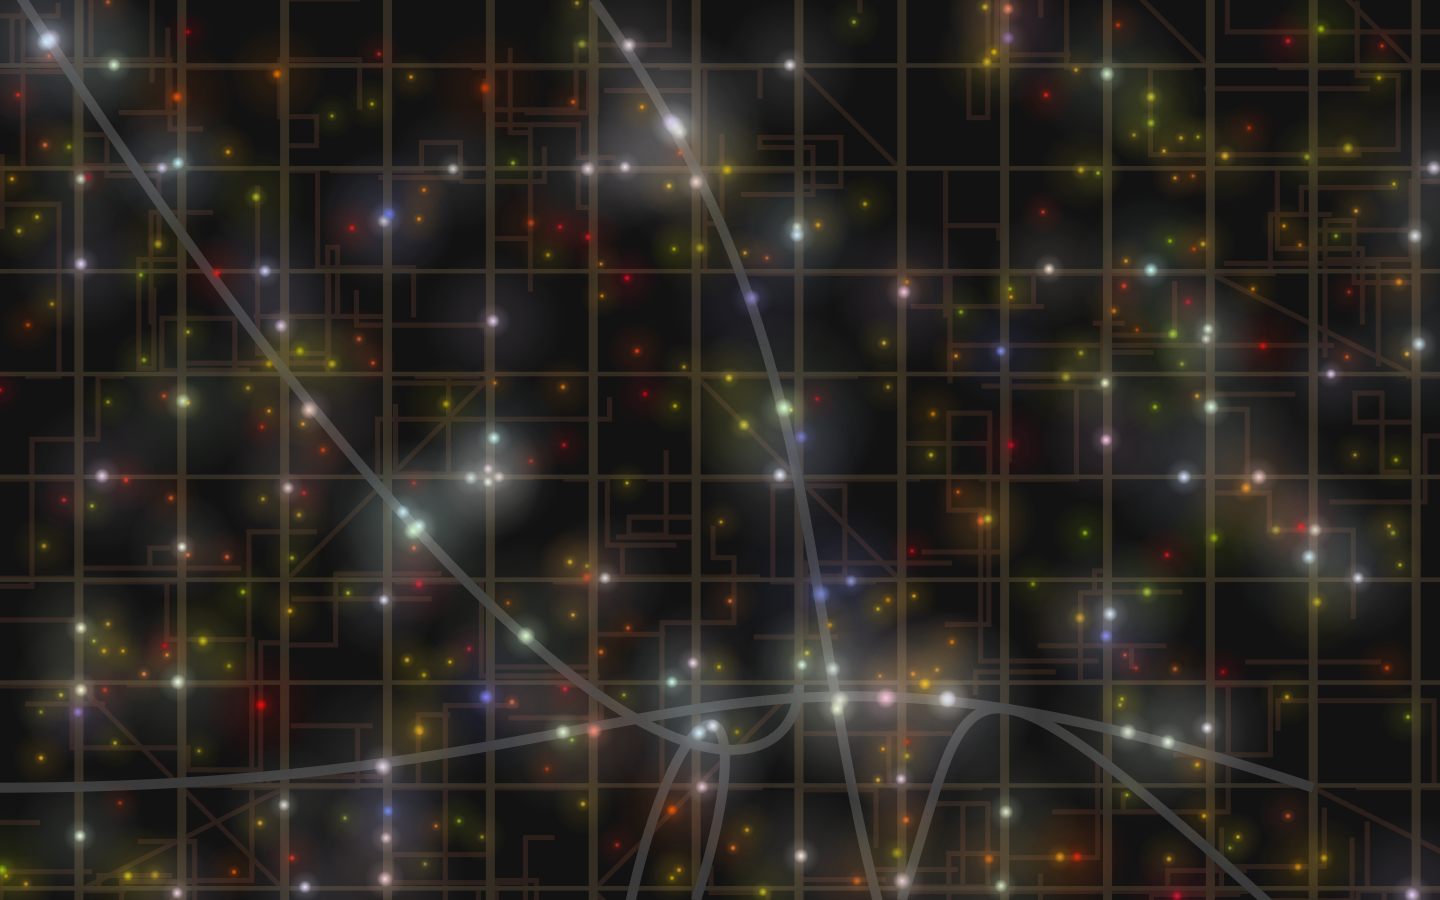
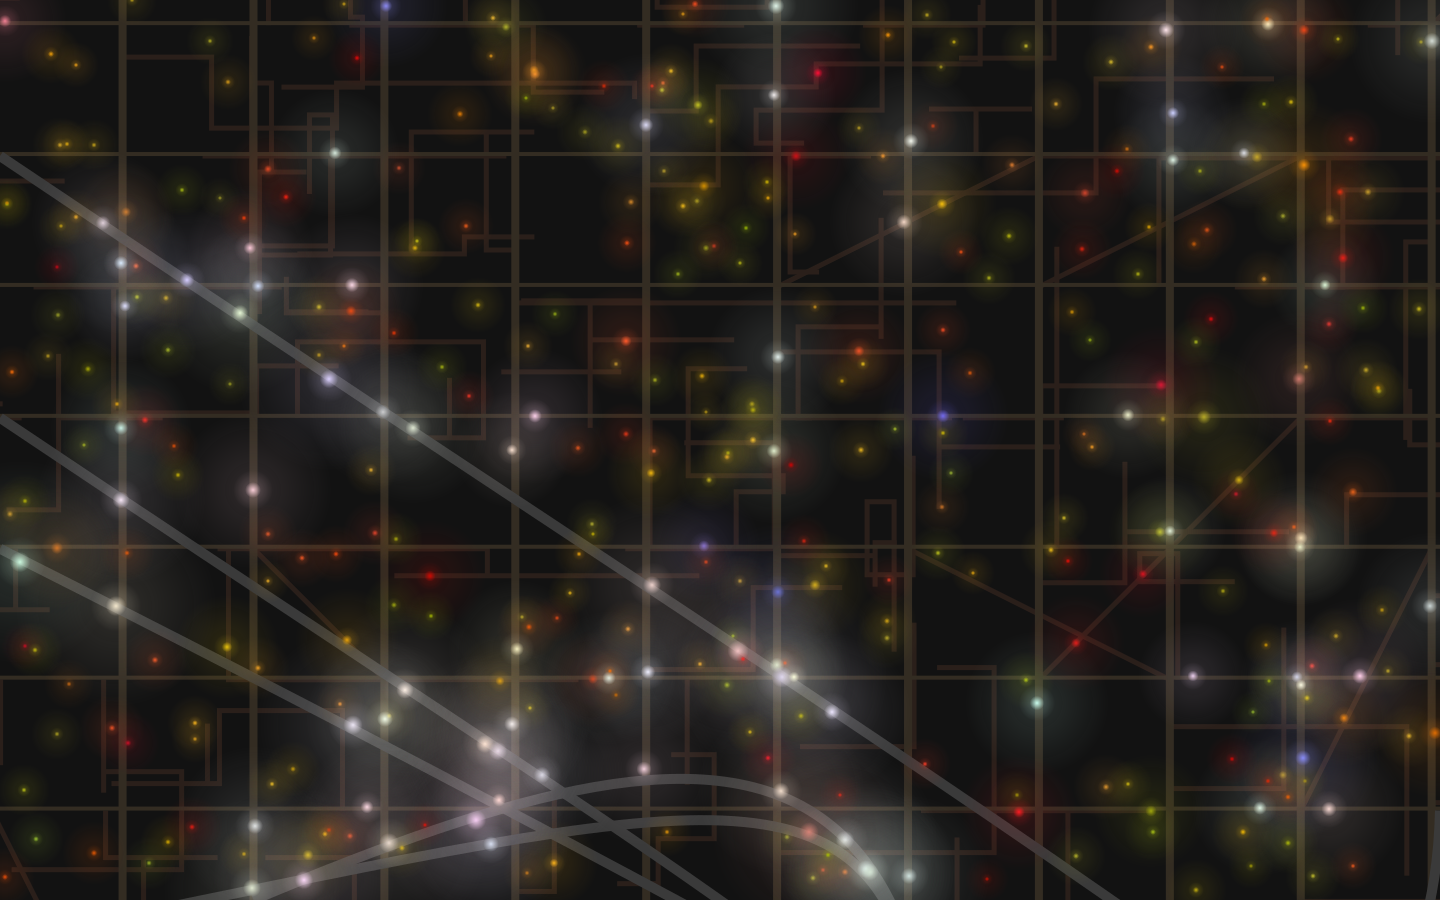
Add files via upload

diff --git a/index.js b/index.js
@@ -1,0 +1,194 @@
+const canvas = document.createElement("canvas");
+const ctx = canvas.getContext("2d");
+canvas.width = window.innerWidth;
+canvas.height = window.innerHeight;
+const w = canvas.width, h = canvas.height;
+
+//probability values
+const rand = (min, max) => { return Math.floor(Math.random() * (max - min + 1) + min); }
+const al_min = 5, al_max = 10;
+const st_min = 25, st_max = 50, st_spacing = w / rand(st_min, st_max), st_width = rand(w / 400, w / 250);
+const offsetV = Math.random() * st_spacing, offsetH = Math.random() * st_spacing;
+const op_min = 5, op_max = 10;
+
+colorString = (rgb, a) => {
+    return 'rgba(' + rgb.r + ', ' + rgb.g + ', ' + rgb.b + ', ' + a + ')';
+}
+
+getLum = (r, g, b) => {
+    return (0.2126 * r + 0.7152 * g + 0.0722 * b) / 100;
+}
+
+flip = () => {
+    return Math.random() < 0.5;
+}
+
+//filler functions
+mainsPattern = (w, h) => {
+    //context vars
+    const patternCanvas = document.createElement("canvas");
+    patternCanvas.width = w;
+    patternCanvas.height = h;
+    const ctxP = patternCanvas.getContext("2d");
+    
+    //black background
+    ctxP.fillStyle = '#121212';
+    ctxP.fillRect(0, 0, w, h);
+
+    //substreets (alleys)
+    ctxP.strokeStyle = '#2A1F1A';
+    ctxP.lineWidth = st_width / 3;
+    var sX = offsetH + -st_spacing, sY = offsetV + -st_spacing;
+    for (let row = 0; row < (h + 2 * st_spacing) / st_spacing; row++) {
+        for (let col = 0; col < (w + 2 * st_spacing) / st_spacing; col++) {
+            ctxP.beginPath();
+            ctxP.moveTo(sX, sY);
+
+            let isDiagonal = Math.random() < 0.15; //15% chance of diagonal street connecting two mains
+            if (isDiagonal) {
+                ctxP.lineTo(sX + rand(-2, 2) * st_spacing, sY + rand(-2, 2) * st_spacing);
+            } else {
+                let budget = st_spacing, pos = {x: sX, y: sY}, prevTheta;
+                for (let i = 0; i < rand(al_min, al_max) && budget > 0; i++) {
+                    let dist = rand(budget / 10, budget), theta = (Math.PI / 2) * rand(0, 4); //random cardinal direction
+                    if (theta == prevTheta) theta = (Math.PI / 2) * rand(0, 4);
+                    budget -= dist * i == 0 ? 0:1;
+                    pos = {x: pos.x + Math.cos(theta) * dist, y: pos.y + Math.sin(theta) * dist}
+
+                    if (i == 0) ctxP.moveTo(pos.x, pos.y);
+                    else ctxP.lineTo(pos.x, pos.y);
+                }
+            }
+
+            ctxP.stroke();
+            sX += st_spacing;
+        }
+        sX = offsetH + -st_spacing;
+        sY += st_spacing;
+    }
+
+    //fill in main streets
+    ctxP.fillStyle = '#332C22';
+    for (let i = offsetH; i < w; i += st_spacing) ctxP.fillRect(i - st_width / 2, 0, st_width, h);
+    for (let j = offsetV; j < h; j += st_spacing) ctxP.fillRect(0, j - st_width / 2, w, st_width / 2);
+    //TODO: larger diagonal aves
+
+    //return
+    return ctxP.createPattern(patternCanvas, 'repeat');
+}
+
+fillStreets = (pointsArr) => {
+    ctx.save();
+    ctx.beginPath();
+
+    pointsArr.forEach((pt, i) => {
+        if (i == 0) {
+            ctx.moveTo(pt.x, pt.y);
+            return;
+        }
+        ctx.lineTo(pt.x, pt.y);
+    });
+
+    ctx.rotate(Math.random() * Math.PI);
+    ctx.fillStyle = mainsPattern(w, h);
+    ctx.fill();
+    ctx.restore();
+}
+
+fillLights = () => {
+    let pixels = ctx.getImageData(0, 0, w, h).data; //arr in [r, g, b, a, r, g, b...]
+
+    for (let i = 0; i < w * h / 500; i++) {
+        let n = rand(0, w * h) * 4;
+        let pixel = {r: pixels[n], g: pixels[n + 1], b: pixels[n + 2], a: pixels[n + 3]};
+        let luminance = getLum(pixel.r, pixel.g, pixel.b) / (getLum(0x3A, 0x3A, 0x3A) - getLum(0x12, 0x12, 0x12) + Math.random(-10, 10) / 100); //relative luminance calc
+
+        if (Math.random() < luminance / 4) { //chance of light weighted by lum
+            let pos = {x: n / 4 % w, y: Math.floor(n / 4 / w)}, r = Math.floor(luminance * rand(50, 75)); //radius weighted by lum
+            let gradient = ctx.createRadialGradient(pos.x, pos.y, 0, pos.x, pos.y, r);
+            let color = {};
+
+            //red > yellow > white
+            //wildcard blue, purple
+            if (luminance < 1) {
+                color = Math.random() < 0.40 ? {r: rand(200, 255), g: rand(0, 150), b: rand(0, 50)}:
+                                {r: rand(150, 255), g: rand(150, 200), b: rand(0, 50)};
+            } else {
+                color = {r: rand(200,255), g: rand(200,255), b: rand(200,255)};
+                if (Math.random() < 0.10) {
+                    color = flip() ? 
+                        {r: rand(200,255), g: rand(100,150), b: rand(100,150)}:
+                        {r: rand(100,150), g: rand(100,150), b: rand(200,255)};
+                }
+            }
+            
+            gradient.addColorStop(0, colorString(color, 1.0));
+            gradient.addColorStop(0.1, colorString(color, 0.25));
+            gradient.addColorStop(0.25, colorString(color, 0.1));
+            gradient.addColorStop(1, colorString(color, 0.0));
+            ctx.fillStyle = gradient;
+            ctx.fillRect(pos.x - r, pos.y - r, r * 2, r * 2);
+        }
+    }
+}
+
+main = () => {
+    //fill in grids
+    let y1 = rand(0, h), y2 = h - y1;
+    fillStreets([{x: 0, y:0}, {x: w, y: 0}, {x: w, y: h}, {x: 0, y: h}]);
+    fillStreets([{x: 0, y:0}, {x: w, y: 0}, {x: w, y: y2}, {x: 0, y: y1}]);
+
+    //main street
+    ctx.beginPath();
+    ctx.moveTo(0, y1);
+    ctx.lineTo(w, y2);
+    ctx.strokeStyle = '#3A3A3A';
+    ctx.lineWidth = st_width * 2.5;
+    ctx.stroke();
+
+    //overpasses
+    ctx.strokeStyle = '#3A3A3A';
+    ctx.lineWidth = st_width * 2;
+    for (let i = 0; i < rand(op_min, op_max); i++) {
+        let oX = rand(0, w), oY = (y2 - y1) / w * oX + y1; //origin coords
+        let angle = Math.atan((y2 - y1) / w) //angle of main street
+        let dist = rand(0, w * 2 + h * 2);
+
+        let pos = {}, ctl = {};
+        let offsetAngle = angle + (Math.random() < 0.5 ? 0:Math.PI);
+        let ctlDist1 = rand(5, 10) * st_spacing;
+
+        ctl.x1 = oX + Math.cos(offsetAngle) * ctlDist1;
+        ctl.y1 = oY + Math.sin(offsetAngle) * ctlDist1;
+        
+        if (dist < w) {
+            pos.x = dist;
+            pos.y = 0;
+        } else if (dist < w + h) {
+            pos.x = w;
+            pos.y = dist - w;
+        } else if (dist < 2 * w + h) {
+            pos.x = w - (dist - (w + h))
+            pos.y = h;
+        } else {
+            pos.x = 0;
+            pos.y = h - (dist - (2 * w + h));
+        }
+
+        ctl.x2 = pos.x + rand(0, 5) * st_spacing;
+        ctl.y2 = pos.y + rand(0, 5) * st_spacing;
+  
+        ctx.beginPath();
+        ctx.moveTo(oX, oY);
+        ctx.bezierCurveTo(ctl.x1, ctl.y1, ctl.x2, ctl.y2, pos.x, pos.y);
+        //TODO: choose nearby point, create on/off ramps?
+        //dir = (Math.PI / 2) * rand(0, 4), endpoint = {x: pos.x};
+        ctx.stroke();
+    }
+
+    //lights
+    fillLights();
+
+    document.body.style.background = "url(" + canvas.toDataURL() + ")";
+}
+main();

diff --git a/node-version(OUTDATED).js b/node-version(OUTDATED).js
@@ -1,0 +1,152 @@
+const fs = require('fs');
+const { createCanvas } = require('canvas');
+const { getMaxListeners } = require('process');
+const w = 1440, h = 900;
+const canvas = createCanvas(w, h);
+const ctx = canvas.getContext('2d');
+
+rgbToHex = (r, g, b) => {
+    let arr = [r, g, b];
+
+    arr.forEach(function(n, i, arr) {
+        arr[i] = arr[i].toString(16);
+        arr[i] = arr[i].length == 1 ? "0" + arr[i] : arr[i];
+    });
+    return '#' + arr[0] + arr[1] + arr[2];
+}
+
+colorString = (rgb, a) => {
+    return 'rgba(' + rgb.r + ', ' + rgb.g + ', ' + rgb.b + ', ' + a + ')';
+}
+
+getLum = (r, g, b) => {
+    return (0.2126 * r + 0.7152 * g + 0.0722 * b) / 100;
+}
+
+rand = (min, max) => {
+    return Math.floor(Math.random() * (max - min + 1) + min);
+}
+
+flip = () => {
+    return Math.random() < 0.5;
+}
+
+save = (i) => {
+    const buffer = canvas.toBuffer('image/png');
+    fs.writeFileSync('download' + i + '.png', buffer);
+}
+
+main = () => {
+    //create grid
+    //rand number for grid spacing, streets there depth 1
+    //rand rare overpass curves 0-1, rand less rare lines and connectors between grids, depth > 1, 
+    //depth val decides depth & width
+    // lines, lowest depth first, then highesr, then scan over each pixel and assign random lights to light color pixels (streets)
+    // the less depth, the colder the light should be, overpasses should be ~white
+
+    //vars
+    const al_min = 5, al_max = 10;
+    const st_min = 10, st_max = 20, st_spacing = w / rand(st_min, st_max), st_width = rand(w / 200, w / 100);
+    const offsetV = Math.random() * st_spacing, offsetH = Math.random() * st_spacing;
+    const op_min = 5, op_max = 10;
+
+    //black background
+    ctx.fillStyle = '#121212';
+    ctx.fillRect(0, 0, w, h);
+
+    //substreets (alleys)
+    ctx.strokeStyle = '#2A1F1A';
+    ctx.lineWidth = 5;
+    var sX = offsetH + -st_spacing, sY = offsetV + -st_spacing;
+    for (let row = 0; row < (h + 2 * st_spacing) / st_spacing; row++) {
+        for (let col = 0; col < (w + 2 * st_spacing) / st_spacing; col++) {
+            ctx.beginPath();
+            ctx.moveTo(sX, sY);
+
+            let isDiagonal = Math.random() < 0.15; //15% chance of diagonal street connecting two mains
+            if (isDiagonal) {
+                ctx.lineTo(sX + rand(-2, 2) * st_spacing, sY + rand(-2, 2) * st_spacing);
+            } else {
+                let budget = st_spacing, pos = {x: sX, y: sY}, prevTheta;
+                for (let i = 0; i < rand(al_min, al_max) && budget > 0; i++) {
+                    let dist = rand(budget / 10, budget), theta = (Math.PI / 2) * rand(0, 4); //random cardinal direction
+                    if (theta == prevTheta) theta = (Math.PI / 2) * rand(0, 4);
+                    budget -= dist * i == 0 ? 0:1;
+                    pos = {x: pos.x + Math.cos(theta) * dist, y: pos.y + Math.sin(theta) * dist}
+
+                    if (i == 0) ctx.moveTo(pos.x, pos.y);
+                    else ctx.lineTo(pos.x, pos.y);
+                }
+            }
+
+            ctx.stroke();
+            sX += st_spacing;
+        }
+        sX = offsetH + -st_spacing;
+        sY += st_spacing;
+    }
+
+    //fill in main streets
+    ctx.fillStyle = '#332C22';
+    for (let i = offsetH; i < w; i += st_spacing) ctx.fillRect(i - st_width / 2, 0, st_width, h);
+    for (let j = offsetV; j < h; j += st_spacing) ctx.fillRect(0, j - st_width / 2, w, st_width / 2);
+    //TODO: larger diagonal aves, split grids
+
+    //overpasses (bezierCurveTo)
+    ctx.strokeStyle = '#3A3A3A';
+    ctx.lineWidth = 10;
+    for (let i = 0; i < rand(op_min, op_max); i++) {
+        let f1 = flip(), f2 = flip();
+        let oX = f1 ? (!f2 ? 0:w):offsetH + rand(-1, w / st_spacing) * st_spacing;
+        let oY = !f1 ? (f2 ? 0:h):offsetV + rand(-1, h / st_spacing) * st_spacing;
+        let ctl = {x1: offsetH + rand(5, 10) * st_spacing, y1: offsetV + rand(5, 10) * st_spacing,
+                    x2: offsetH + rand(5, 10) * st_spacing, y2: offsetV + rand(5, 10) * st_spacing };
+        let pos = {x: offsetH + rand(5, st_max) * st_spacing, y: offsetV + rand(5, st_max) * st_spacing};
+
+        ctx.beginPath();
+        ctx.moveTo(oX, oY);
+        ctx.bezierCurveTo(ctl.x1, ctl.y1, ctl.x2, ctl.y2, pos.x, pos.y);
+        //TODO: choose nearby point, create on/off ramps?
+        //dir = (Math.PI / 2) * rand(0, 4), endpoint = {x: pos.x};
+        ctx.stroke();
+    }
+
+    //lights
+    //loop over, the higher the color, the greater the chance of a light
+    let pixels = ctx.getImageData(0, 0, w, h).data; //arr in [r, g, b, a, r, g, b...]
+
+    for (let i = 0; i < w * h / 500; i++) {
+        let n = rand(0, w * h) * 4;
+        let pixel = {r: pixels[n], g: pixels[n + 1], b: pixels[n + 2], a: pixels[n + 3]};
+        let luminance = getLum(pixel.r, pixel.g, pixel.b) / (getLum(0x3A, 0x3A, 0x3A) - getLum(0x12, 0x12, 0x12) + Math.random(-10, 10) / 100); //relative luminance calc
+
+        if (Math.random() < luminance / 4) { //chance of light weighted by lum
+            let pos = {x: n / 4 % w, y: Math.floor(n / 4 / w)}, r = Math.floor(luminance * rand(50, 75));
+            let gradient = ctx.createRadialGradient(pos.x, pos.y, 0, pos.x, pos.y, r);
+            let color = {};
+
+            //red > yellow > white
+            //wildcard blue, purple
+            if (luminance < 1) {
+                color = Math.random() < 0.40 ? {r: rand(200, 255), g: rand(0, 150), b: rand(0, 50)}:
+                                {r: rand(150, 255), g: rand(150, 200), b: rand(0, 50)};
+            } else {
+                color = {r: rand(200,255), g: rand(200,255), b: rand(200,255)};
+                if (Math.random() < 0.10) {
+                    color = flip() ? 
+                        {r: rand(200,255), g: rand(100,150), b: rand(100,150)}:
+                        {r: rand(100,150), g: rand(100,150), b: rand(200,255)};
+                }
+            }
+            
+            gradient.addColorStop(0, colorString(color, 1.0));
+            gradient.addColorStop(0.1, colorString(color, 0.25));
+            gradient.addColorStop(0.25, colorString(color, 0.1));
+            gradient.addColorStop(1, colorString(color, 0.0));
+            ctx.fillStyle = gradient;
+            ctx.fillRect(pos.x - r, pos.y - r, r * 2, r * 2);
+        }
+    }
+    save(0);
+}
+main();

diff --git a/index.html b/index.html
@@ -1,0 +1,8 @@
+<!DOCTYPE html>
+<html lang="en">
+    <head></head>
+
+    <body>
+        <script src="index.js"></script>
+    </body>
+</html>
